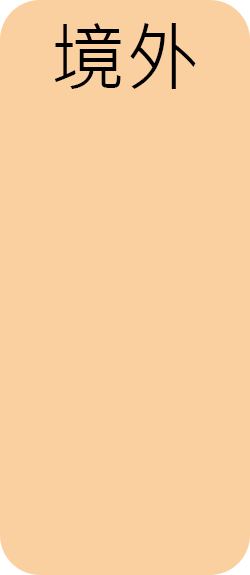
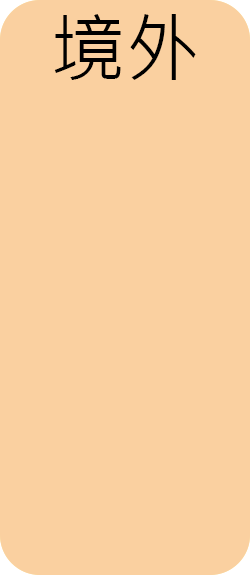
imported tag

diff --git a/pic.py b/pic.py
@@ -160,7 +160,7 @@ def pic_new(date=None, today_confirmed=None, today_domestic=None, today_imported
     if domestic_length == 0:
         original.paste(imported_tag, (590+domestic_length, 470), imported_tag)
     else:
-        original.paste(imported_tag, (590+domestic_length-40, 470), imported_tag)
+        original.paste(imported_tag, (590+domestic_length-60, 470), imported_tag)
     
 
     if(int(today_confirmed) == 0):
@@ -186,4 +186,4 @@ def pic_new(date=None, today_confirmed=None, today_domestic=None, today_imported
     return date
 
 
-pic_new("0110", "0", "5", "5", "1")
+pic_new("0110", "70", "12", "49", "0")
